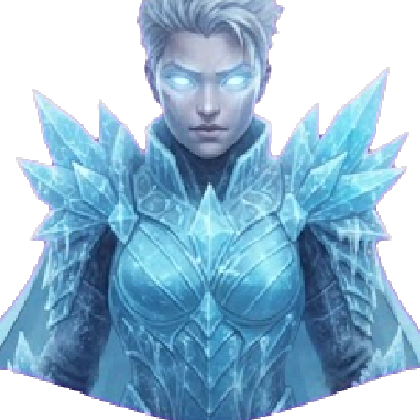
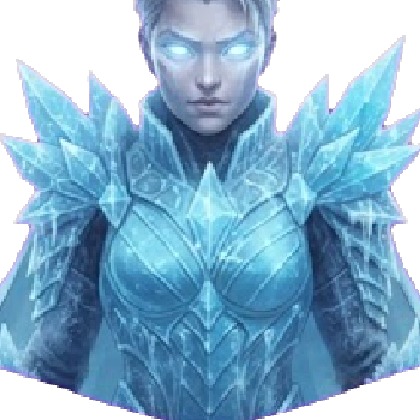
Lift frost/tide select faces to upper third
Frost's tall ice crown and Tide's dark hair filled the top of the bust,
so their visible faces sat low and looked to float. Stronger bottom-
anchored zoom (frost 1.2, tide 1.28) raises the face to match the other
fighters without cutting the head. Verified in the running desktop
layout. Bump ASSET_VERSION 16.

diff --git a/src/game/sprites.js b/src/game/sprites.js
@@ -14,7 +14,7 @@ const BASE = import.meta.env.BASE_URL || '/';
 // Bump this whenever portrait/sprite PNGs are re-exported. Vite does NOT hash
 // files under public/, so browsers (and the dev server) can serve a stale
 // cached copy after art updates — the version query forces a fresh fetch.
-const ASSET_VERSION = '15';
+const ASSET_VERSION = '16';
 const v = (url) => `${url}${url.includes('?') ? '&' : '?'}v=${ASSET_VERSION}`;
 
 /**